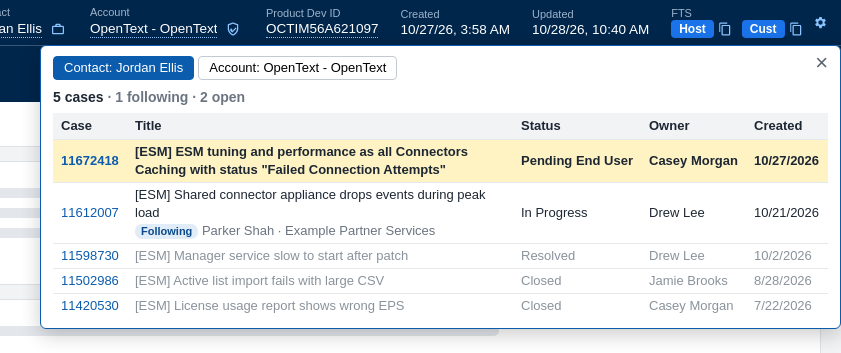
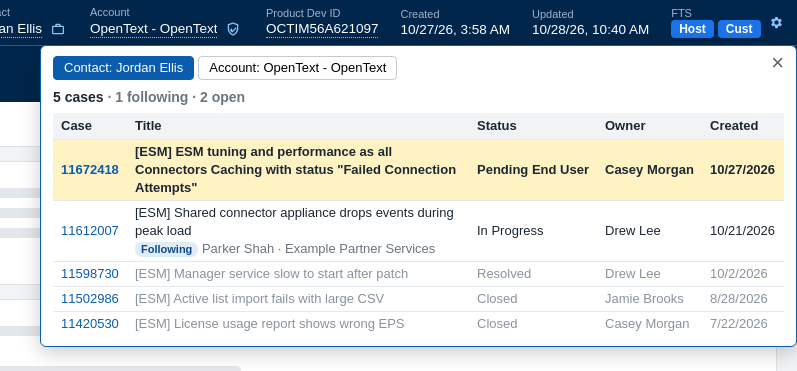
1.7.1.2 (test build): right-click FTS to copy its URL; web page leads with the status change
- The copy icon next to FTS is gone: right-clicking the FTS button copies the
  ftp:// URL (the button briefly says Copied).
- Web page: the status change comes first, with a screenshot of a made-up
  case list (test/demo.js builds it like OTSM's list, so the real banner.js
  draws the menu).

Claude-Session: https://claude.ai/code/session_01NkpnDbqKsuBq5PSnVFxaiM

diff --git a/test/demo.js b/test/demo.js
@@ -86,6 +86,44 @@ h2 { font-size: 20px; color: #1d2733; margin: 0 0 10px; font-weight: 400; }
 <div class="blk"><div class="bar" style="width:80%"></div><div class="bar" style="width:45%"></div><div class="bar" style="width:66%"></div></div>
 </body></html>`;
 
+// A stand-in for an OTSM case list (made-up cases), built like OTSM's own (SlickGrid classes and ids), so the real
+// banner.js finds the Status column and draws its menu on it
+const LIST_ROWS = [
+  ['11672418', '[ESM] ESM tuning and performance as all Connectors Caching', 'High', 'Ellis, Jordan', 'Pending End User', '10/28/2026 10:40:46 AM', 'Hi Jordan, the connector logs show the cache filling after…'],
+  ['11650211', '[ESM] Correlation rule not triggering after upgrade to 7.8', 'Medium', 'Reyes, Sam', 'In Progress', '10/29/2026 12:28:44 PM', 'Thanks Sam, the rule export helps. I can reproduce it…'],
+  ['11612007', '[ESM] Shared connector appliance drops events during peak load', 'Medium', 'Shah, Parker', 'Pending Internal', '10/27/2026 4:05:12 PM', 'Sent the event counts to the connector team for review…'],
+  ['11598730', '[Logger] Storage group retention question', 'Low', 'Patel, Robin', 'Pending End User', '10/23/2026 2:52:37 PM', 'Hi Robin, retention is set per storage group; see…'],
+];
+const LIST_COLS = [['isSelected', '', 34], ['Id', 'Id', 96], ['DisplayLabel', 'Title', 300], ['Priority', 'Priority', 100], ['RequestedForPerson', 'Requested for', 128],
+  ['Status', 'Status', 150], ['LastUpdateTime', 'Updated On', 180], ['LatestComment_c', 'Latest Comment', 330]];
+const listCell = (row, i) => {
+  const [id, title, pri, who, st, upd, com] = row;
+  return [`<input type="checkbox">`, `<a class="entity-link-id" href="/saw/Request/${id}">${id}</a>`, title,
+    `<span class="pri pri-${pri.toLowerCase()}"></span>${pri}`, `<span class="av"></span>${who}`, st, upd, com][i];
+};
+const LIST = `<!doctype html><html><head><meta charset="utf-8"><style>
+body { margin: 0; padding-top: 56px; background: #fff; font: 14px Arial, sans-serif; color: #333; }
+.navbar-fixed-top { position: fixed; top: 0; left: 0; right: 0; height: 56px; background: #00264b; color: #fff; display: flex; align-items: center; padding: 0 20px; font-size: 17px; }
+.tabs { background: #f1f3f5; display: flex; gap: 34px; padding: 0 20px; height: 40px; align-items: center; font-size: 14px; }
+.tabs .on { color: #0b5cad; font-weight: 700; }
+.tools { display: flex; gap: 26px; padding: 14px 20px; font-size: 14px; color: #333; }
+.slickgrid_1 { margin: 0 20px; border-top: 1px solid #e3e7eb; }
+.slick-header-columns, .slick-row { display: flex; }
+.slick-header-column { font-weight: 700; padding: 10px 8px; box-sizing: border-box; }
+.slick-row { border-bottom: 1px solid #e3e7eb; }
+.slick-row.sel { background: #e9ecef; }
+.slick-cell { padding: 10px 8px; box-sizing: border-box; white-space: nowrap; overflow: hidden; text-overflow: ellipsis; }
+.slick-cell a { color: #0b5cad; text-decoration: none; }
+.pri { display: inline-block; width: 6px; height: 14px; margin-right: 6px; vertical-align: -2px; border-left: 2px solid #f39c12; border-right: 2px solid #f39c12; }
+.pri-high { border-color: #e67e22; } .pri-low { border-color: #f5c26b; }
+.av { display: inline-block; width: 18px; height: 18px; border-radius: 50%; background: #5a6470; margin-right: 6px; vertical-align: -4px; }
+</style></head><body><div class="navbar-fixed-top">OTSM</div>
+<div class="tabs"><span class="on">MY CASES</span><span>CLOSED</span><span>ALL ACTIVE</span><span>REQUESTED FOR</span></div>
+<div class="tools"><span>New</span><span>Details</span><span>Refresh</span><span>Columns</span><span>More</span></div>
+<div class="slickgrid_1"><div class="slick-header-columns">${LIST_COLS.map(([f, t, w]) => `<div class="slick-header-column" id="slickgrid_1${f}" style="width:${w}px">${t}</div>`).join('')}</div>
+<div class="slick-viewport">${LIST_ROWS.map((r, ri) => `<div class="slick-row item-id-${r[0]}${ri === 0 ? ' sel' : ''}">${LIST_COLS.map(([f, t, w], i) => `<div class="slick-cell l${i} r${i}" style="width:${w}px">${listCell(r, i)}</div>`).join('')}</div>`).join('')}</div></div>
+</body></html>`;
+
 (async () => {
   fs.mkdirSync(OUT, { recursive: true });
   const browser = await puppeteer.launch({ headless: true, args: ['--no-sandbox', '--disable-setuid-sandbox', '--disable-dev-shm-usage', '--font-render-hinting=none'] });
@@ -124,10 +162,24 @@ h2 { font-size: 20px; color: #1d2733; margin: 0 0 10px; font-weight: 400; }
   await page.keyboard.press('Escape');
   await click('#otsmb button[title="Account\'s entitlements"]'); await sleep(1000); await shotPopup('entitlements');
   await page.keyboard.press('Escape');
+  // a case list with the status menu open (nothing is saved: the menu is only hovered)
+  const list = await browser.newPage();
+  await list.setViewport({ width: 1340, height: 490, deviceScaleFactor: 1 });
+  await list.setRequestInterception(true);
+  list.on('request', r => r.respond({ status: 200, contentType: 'text/html', body: LIST }));
+  await list.goto(`${ORIGIN}/saw/Requests?TENANTID=${T}`);
+  await list.addStyleTag({ path: EXT + '/banner.css' });
+  await list.addScriptTag({ path: EXT + '/settings.js' }); await list.addScriptTag({ path: EXT + '/banner.js' }); await sleep(500);
+  const stCell = await list.$('.slick-row.item-id-11650211 .slick-cell.l5');
+  await stCell.hover(); await sleep(200); await stCell.click(); await sleep(500);
+  const opt = await list.evaluateHandle(() => [...document.querySelectorAll('.otsmb-statusopt')].find(b => b.textContent === 'Pending End User'));
+  await opt.hover(); await sleep(300);
+  await list.screenshot({ path: OUT + '/status-list.png', clip: { x: 0, y: 56, width: 1340, height: 420 } }); console.log('wrote status-list');
+  await list.close();
   // the settings page, with its defaults (it runs from the folder without extension APIs)
-  const opt = await browser.newPage();
-  await opt.setViewport({ width: 1700, height: 900, deviceScaleFactor: 1 });
-  await opt.goto('file://' + EXT + '/options.html'); await sleep(800);
-  await opt.screenshot({ path: OUT + '/settings.png', fullPage: true }); console.log('wrote settings');
+  const optPage = await browser.newPage();
+  await optPage.setViewport({ width: 1700, height: 900, deviceScaleFactor: 1 });
+  await optPage.goto('file://' + EXT + '/options.html'); await sleep(800);
+  await optPage.screenshot({ path: OUT + '/settings.png', fullPage: true }); console.log('wrote settings');
   await browser.close();
 })();

diff --git a/site/index.html b/site/index.html
@@ -55,14 +55,21 @@
 
   <h2>What it shows</h2>
   <ul>
+    <li><b>Change a case's status</b> straight from your OTSM case lists, without opening the case.</li>
     <li><b>Case</b> number (click to copy), <b>Title</b> (shortened; hover for all of it), <b>Priority</b> and <b>Status</b> badges, <b>Owner</b>, <b>Contact</b>, <b>Account</b>, <b>Created</b> and <b>Updated</b>.</li>
     <li><b>Product Dev ID</b> when the case has one, linked to its Quixy page. <b>Product</b> and <b>Entitlement</b> can be turned on in the settings.</li>
     <li><b>FTS</b> opens the case's FTS account in WinSCP (or your default FTP app), logged in with the case's credentials.
-      The copy icon next to it copies the FTP address with the login, to paste into FileZilla or any other FTP program.</li>
+      Right-click it to copy the FTP address with the login, to paste into FileZilla or any other FTP program.</li>
     <li>Contact and account cards with phone numbers, the account's support team and special handling notes.</li>
-    <li>Change a case's status straight from your OTSM case lists.</li>
     <li>It stays on screen as you scroll, and reloads when you press OTSM's Refresh button on the case.</li>
   </ul>
+
+  <h3>Change a status from your case lists</h3>
+  <p>In OTSM's own case lists (My Cases and the others), click a case's status and pick a new one: Ready, In Progress,
+    Pending End User, Needs Attention, Pending Internal or Suspended. It saves straight away, the same way OTSM's Save does,
+    without opening the case. If the case was changed by someone else in the meantime, OTSM's message says so and nothing
+    is changed. Resolved and Closed aren't offered, because they need a solution and completion code. This can be turned off in the settings.</p>
+  <figure><a href="img/status-list.png"><img src="img/status-list.png" alt="An OTSM case list with the status menu open on one case: Ready, In Progress (current), Pending End User, Needs Attention, Pending Internal and Suspended"></a></figure>
 
   <h3>Contact and account cards</h3>
   <p>Hover over the contact or account name for their details: email and phone numbers, time zone with the local time there,
@@ -83,12 +90,6 @@
   <p>The shield icon next to the account lists its entitlements: product, support plan, contract, dates and state, in-use ones first.
     A ✓ marks the ones the case's contact is an entitled user on, and the case's own entitlement is highlighted.</p>
   <figure><a href="img/entitlements.png"><img src="img/entitlements.png" alt="Popup listing entitlements with a contact check mark, entitlement number, product, support plan, contract, start, end and state"></a></figure>
-
-  <h3>Change a status from your case lists</h3>
-  <p>In OTSM's own case lists (My Cases and the others), click a case's status and pick a new one: Ready, In Progress,
-    Pending End User, Needs Attention, Pending Internal or Suspended. It saves straight away, the same way OTSM's Save does,
-    without opening the case. If the case was changed by someone else in the meantime, OTSM's message says so and nothing
-    is changed. Resolved and Closed aren't offered, because they need a solution and completion code. This can be turned off in the settings.</p>
 
   <h3>Settings</h3>
   <p>Click ⚙ on the banner (or right-click the extension's icon and choose Options) to pick which fields show and in what order,
@@ -117,7 +118,7 @@
   <p>The FTS button needs <a href="https://winscp.net/">WinSCP</a> installed. The first time, the browser asks whether to open WinSCP;
     tick <b>Always allow</b> so it doesn't ask again.</p>
   <p>To use another FTP program, set <b>FTS opens in</b> to <b>Default FTP app</b>: the button then opens whatever Windows has set
-    for FTP links. Or click the copy icon next to FTS and paste the address into your FTP program (in FileZilla, into the
+    for FTP links. Or right-click the FTS button to copy the address and paste it into your FTP program (in FileZilla, into the
     Quickconnect <b>Host</b> box).</p>
 
   <h2>Privacy</h2>

diff --git a/extension/banner.js b/extension/banner.js
@@ -21,7 +21,6 @@
     ents: '<svg viewBox="0 0 24 24" width="16" height="16"><path fill="currentColor" d="M12 2l8 3v6c0 5-3.4 9.4-8 11-4.6-1.6-8-6-8-11V5l8-3zm0 2.1L6 6.4V11c0 3.9 2.5 7.4 6 8.9 3.5-1.5 6-5 6-8.9V6.4l-6-2.3zm-1 10.5l5-5 1.4 1.4-6.4 6.4-3.4-3.4L9 10.6l2 2z"/></svg>',
     gear: '<svg viewBox="0 0 24 24" width="15" height="15"><path fill="currentColor" d="M19.4 13a7.6 7.6 0 0 0 0-2l2.1-1.6-2-3.5-2.5 1a7.4 7.4 0 0 0-1.7-1L15 3h-4l-.4 2.7a7.4 7.4 0 0 0-1.7 1l-2.5-1-2 3.5L6.6 11a7.6 7.6 0 0 0 0 2l-2.1 1.6 2 3.5 2.5-1a7.4 7.4 0 0 0 1.7 1L11 21h4l.4-2.7a7.4 7.4 0 0 0 1.7-1l2.5 1 2-3.5-2.2-1.8zM13 15.5a3.5 3.5 0 1 1 0-7 3.5 3.5 0 0 1 0 7z" transform="translate(-1 0)"/></svg>',
     pencil: '<svg viewBox="0 0 24 24" width="13" height="13"><path fill="currentColor" d="M3 17.25V21h3.75L17.8 9.94l-3.75-3.75L3 17.25zm17.7-10.2a1 1 0 0 0 0-1.42l-2.33-2.33a1 1 0 0 0-1.42 0l-1.83 1.83 3.75 3.75 1.83-1.83z"/></svg>',
-    copy: '<svg viewBox="0 0 24 24" width="14" height="14"><path fill="currentColor" d="M16 1H4a2 2 0 0 0-2 2v14h2V3h12V1zm3 4H8a2 2 0 0 0-2 2v14a2 2 0 0 0 2 2h11a2 2 0 0 0 2-2V7a2 2 0 0 0-2-2zm0 16H8V7h11v14z"/></svg>',
     refresh: '<svg viewBox="0 0 24 24" width="15" height="15"><path fill="currentColor" d="M17.6 6.4A8 8 0 1 0 20 12h-2a6 6 0 1 1-1.8-4.2L13 11h7V4l-2.4 2.4z"/></svg>',
   };
 
@@ -223,7 +222,7 @@
   // FTS accounts in WinSCP (winscp-ftp:// opens WinSCP rather than another FTP handler). skip-domain-check: SMAX's
   // "External link navigation" warning (platform.js, click handler on body) skips links with that attribute.
   // FTS: the button opens the account in WinSCP or the default FTP app (setting: whatever Windows has for ftp:// links);
-  // the icon next to it copies the ftp://user:pass@host/ URL, which FileZilla's Quickconnect and most FTP programs accept
+  // right-clicking it copies the ftp://user:pass@host/ URL, which FileZilla's Quickconnect and most FTP programs accept
   const FTS_APPS = { winscp: ['winscp-ftp://', 'WinSCP'], ftp: ['ftp://', 'your FTP app'] };
   function ftsLinks(r) {
     let host = FTS_HOST;
@@ -235,12 +234,11 @@
     if (settings.fts !== 'host') accounts.push({ user: r.FTSCustAccount_c, pass: r.FTSCustPassword_c, text: both ? 'Cust' : 'FTS', what: 'customer account' });
     const groups = accounts.filter(a => a.user && a.pass).map(a => {
       const login = `${encodeURIComponent(a.user)}:${encodeURIComponent(a.pass)}@${host}/`;
-      return el('span', { class: 'otsmb-fts' },
-        el('a', { class: 'otsmb-btn' + (both ? ' otsmb-btn-sm' : ''), href: scheme + login, 'skip-domain-check': '',
-          title: `Open ${host} in ${appName} with the FTS ${a.what} ${a.user}` }, a.text),
-        el('button', { class: 'otsmb-icon otsmb-copyurl', type: 'button', title: `Copy the FTS ${a.what} URL (ftp://…)`, html: ICON.copy,
-          onclick: e => { const b = e.currentTarget; navigator.clipboard.writeText('ftp://' + login).then(() => { b.classList.add('otsmb-copied'); b.title = 'Copied';
-            setTimeout(() => { b.classList.remove('otsmb-copied'); b.title = `Copy the FTS ${a.what} URL (ftp://…)`; }, 1200); }); } }));
+      // Right-click copies the URL; the button briefly says Copied
+      return el('a', { class: 'otsmb-btn' + (both ? ' otsmb-btn-sm' : ''), href: scheme + login, 'skip-domain-check': '',
+        title: `Open ${host} in ${appName} with the FTS ${a.what} ${a.user}\nRight-click to copy the FTP URL`,
+        oncontextmenu: e => { e.preventDefault(); const b = e.currentTarget;
+          navigator.clipboard.writeText('ftp://' + login).then(() => { b.textContent = 'Copied'; setTimeout(() => { b.textContent = a.text; }, 1200); }); } }, a.text);
     });
     if (!groups.length) return [el('span', { class: 'otsmb-dim', title: 'This case has no FTS account' }, 'No FTS')];
     if (!both) return groups;

diff --git a/extension/options.js b/extension/options.js
@@ -38,7 +38,6 @@
   };
   const SAMPLE_TITLE = '[ESM] ESM tuning and performance as all Connectors Caching with status "Failed Connection Attempts"';
   const icon = () => el('span', { class: 'otsmb-icon' }, '▣');
-  const copyIcon = () => el('span', { class: 'otsmb-icon' }, '⧉');
 
   function preview() {
     const b = $('otsmb');
@@ -52,8 +51,8 @@
       return SAMPLE[id][1];
     };
     const fts = s.fts === 'both'
-      ? [el('div', { class: 'otsmb-col' }, el('div', { class: 'otsmb-label' }, 'FTS'), el('div', { class: 'otsmb-value otsmb-fts2' }, ...['Host', 'Cust'].map(t => el('span', { class: 'otsmb-fts' }, el('span', { class: 'otsmb-btn otsmb-btn-sm' }, t), copyIcon()))))]
-      : [el('span', { class: 'otsmb-fts' }, el('span', { class: 'otsmb-btn' }, 'FTS'), copyIcon())];
+      ? [el('div', { class: 'otsmb-col' }, el('div', { class: 'otsmb-label' }, 'FTS'), el('div', { class: 'otsmb-value otsmb-fts2' }, ...['Host', 'Cust'].map(t => el('span', { class: 'otsmb-btn otsmb-btn-sm' }, t))))]
+      : [el('span', { class: 'otsmb-btn' }, 'FTS')];
     b.replaceChildren(...s.fields.filter(f => f.on).map(f => el('div', { class: 'otsmb-col' + (f.id === 'title' ? ' otsmb-grow' : '') },
       el('div', { class: 'otsmb-label' }, SAMPLE[f.id][0]), el('div', { class: 'otsmb-value' }, value(f.id)))),
       el('div', { class: 'otsmb-actions' }, ...fts, el('span', { class: 'otsmb-icon' }, '⚙')));

diff --git a/extension/banner.css b/extension/banner.css
@@ -35,9 +35,7 @@ html.otsmb-on .pl-entity-page-minimized-header { top: calc(56px + var(--otsmb-h)
 #otsmb .otsmb-btn { background: #1a73e8; color: #fff; padding: 3px 12px; border-radius: 4px; font-weight: 600; text-decoration: none; }
 #otsmb .otsmb-btn:hover { background: #3b8bf0; }
 #otsmb .otsmb-btn.otsmb-btn-sm { padding: 0 8px; font-size: 12px; line-height: 18px; }
-#otsmb .otsmb-fts2 { display: flex; gap: 8px; }
-#otsmb .otsmb-fts { display: inline-flex; align-items: center; gap: 2px; }
-#otsmb .otsmb-copyurl.otsmb-copied { color: #7ee2a0; opacity: 1; }
+#otsmb .otsmb-fts2 { display: flex; gap: 4px; }
 
 .otsmb-dim { color: #6b7480; }
 .otsmb-err { color: #b3261e; }

diff --git a/README.md b/README.md
@@ -23,7 +23,7 @@ with a small label over each value.
   none). Entitlements owned by another company (delegated, or the contact's) are included and say who owns them.
 - **FTS**: opens the case's FTS account in WinSCP (`winscp-ftp://` link) or, by setting, the default FTP app (`ftp://`: whatever
   Windows has for FTP links; Windows 11 doesn't offer FileZilla there).
-  The copy icon next to it copies the `ftp://user:password@host/` URL for FileZilla or any other FTP program. The link carries
+  Right-clicking it copies the `ftp://user:password@host/` URL for FileZilla or any other FTP program. The link carries
   `skip-domain-check`, so SMAX's "External link navigation" warning doesn't appear; Chrome still asks before opening an app.
 - **Status in case lists** (setting, on by default): click the Status of a case in SMAX's own lists (My Cases and the
   others) to pick Ready, In Progress, Pending End User, Needs Attention, Pending Internal or Suspended; it saves at once
